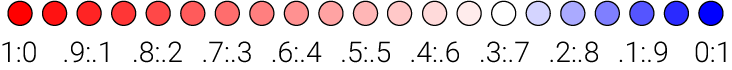
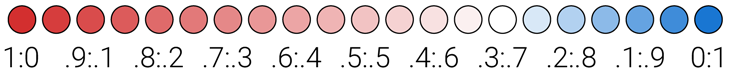
changed color scheme

diff --git a/resources/assets/sass/glazy/_glazy-custom.scss b/resources/assets/sass/glazy/_glazy-custom.scss
@@ -21,3 +21,86 @@ body {
   padding-top: 0;
   padding-bottom: 0;
 }
+
+/* OXIDE COLORS */
+.oxide-colors-R2O    { color: #d32f2f; }
+.oxide-colors-RO     { color: #1976d2; }
+
+.oxide-colors-Al2O3  { color: #388e3c; }
+.oxide-colors-PbO    { color: #388e3c; }
+.oxide-colors-SnO2   { color: #388e3c; }
+
+.oxide-colors-SiO2   { color: #7b1fa2; }
+.oxide-colors-B2O3   { color: #7b1fa2; }
+
+.oxide-colors-Li2O   { color: #d32f2f; }
+.oxide-colors-Na2O   { color: #d32f2f; }
+.oxide-colors-K2O    { color: #d32f2f; }
+
+.oxide-colors-BeO    { color: #1976d2; }
+.oxide-colors-MgO    { color: #1976d2; }
+.oxide-colors-CaO    { color: #1976d2; }
+.oxide-colors-SrO    { color: #1976d2; }
+.oxide-colors-BaO    { color: #1976d2; }
+
+.oxide-colors-TiO2   { color: #f57c00; }
+.oxide-colors-ZrO    { color: #f57c00; }
+.oxide-colors-ZrO2   { color: #f57c00; }
+.oxide-colors-V2O5   { color: #f57c00; }
+.oxide-colors-Cr2O3  { color: #f57c00; }
+.oxide-colors-MnO    { color: #f57c00; }
+.oxide-colors-MnO2   { color: #f57c00; }
+.oxide-colors-FeO    { color: #f57c00; }
+.oxide-colors-Fe2O3  { color: #f57c00; }
+.oxide-colors-CoO    { color: #f57c00; }
+.oxide-colors-NiO    { color: #f57c00; }
+.oxide-colors-CuO    { color: #f57c00; }
+.oxide-colors-Cu2O   { color: #f57c00; }
+.oxide-colors-CdO    { color: #f57c00; }
+.oxide-colors-ZnO    { color: #f57c00; }
+
+.oxide-colors-F      { color: #757575; }
+
+.oxide-colors-P2O5   { color: #0097a7; }
+
+/* OXIDE FILL COLORS */
+.oxide-colors-fill-R2O    { fill: #d32f2f; }
+.oxide-colors-fill-RO     { fill: #1976d2; }
+
+.oxide-colors-fill-Al2O3  { fill: #388e3c; }
+.oxide-colors-fill-PbO    { fill: #388e3c; }
+.oxide-colors-fill-SnO2   { fill: #388e3c; }
+
+.oxide-colors-fill-SiO2   { fill: #7b1fa2; }
+.oxide-colors-fill-B2O3   { fill: #7b1fa2; }
+
+.oxide-colors-fill-Li2O   { fill: #d32f2f; }
+.oxide-colors-fill-Na2O   { fill: #d32f2f; }
+.oxide-colors-fill-K2O    { fill: #d32f2f; }
+
+.oxide-colors-fill-BeO    { fill: #1976d2; }
+.oxide-colors-fill-MgO    { fill: #1976d2; }
+.oxide-colors-fill-CaO    { fill: #1976d2; }
+.oxide-colors-fill-SrO    { fill: #1976d2; }
+.oxide-colors-fill-BaO    { fill: #1976d2; }
+
+.oxide-colors-fill-TiO2   { fill: #f57c00; }
+.oxide-colors-fill-ZrO    { fill: #f57c00; }
+.oxide-colors-fill-ZrO2   { fill: #f57c00; }
+.oxide-colors-fill-V2O5   { fill: #f57c00; }
+.oxide-colors-fill-Cr2O3  { fill: #f57c00; }
+.oxide-colors-fill-MnO    { fill: #f57c00; }
+.oxide-colors-fill-MnO2   { fill: #f57c00; }
+.oxide-colors-fill-FeO    { fill: #f57c00; }
+.oxide-colors-fill-Fe2O3  { fill: #f57c00; }
+.oxide-colors-fill-CoO    { fill: #f57c00; }
+.oxide-colors-fill-NiO    { fill: #f57c00; }
+.oxide-colors-fill-CuO    { fill: #f57c00; }
+.oxide-colors-fill-Cu2O   { fill: #f57c00; }
+.oxide-colors-fill-CdO    { fill: #f57c00; }
+.oxide-colors-fill-ZnO    { fill: #f57c00; }
+
+.oxide-colors-fill-F      { fill: #757575; }
+
+.oxide-colors-fill-P2O5   { fill: #0097a7; }
+

diff --git a/resources/assets/js/components/glazy/analysis/UmfTraditionalNotation.vue b/resources/assets/js/components/glazy/analysis/UmfTraditionalNotation.vue
@@ -174,43 +174,8 @@
         white-space: nowrap!important;
     }
 
-    .oxide-colors-R2O    { color: #000000; }
-    .oxide-colors-RO     { color: #000000; }
-    .oxide-colors-SiO2   { color: #000000; }
-    .oxide-colors-Al2O3  { color: #009900; }
-    .oxide-colors-B2O3   { color: #000000; }
 
-    .oxide-colors-Li2O   { color: #ff0000; }
-    .oxide-colors-Na2O   { color: #ff2222; }
-    .oxide-colors-K2O    { color: #ff4444; }
-
-    .oxide-colors-BeO    { color: #0000ff; }
-    .oxide-colors-MgO    { color: #2222ff; }
-    .oxide-colors-CaO    { color: #4444ff; }
-    .oxide-colors-SrO    { color: #6666ff; }
-    .oxide-colors-BaO    { color: #8888ff; }
-
-
-    .oxide-colors-P2O5   { color: #000000; }
-    .oxide-colors-TiO2   { color: #000000; }
-    .oxide-colors-ZrO    { color: #000000; }
-    .oxide-colors-ZrO2   { color: #000000; }
-    .oxide-colors-V2O5   { color: #000000; }
-    .oxide-colors-Cr2O3  { color: #000000; }
-    .oxide-colors-MnO    { color: #000000; }
-    .oxide-colors-MnO2   { color: #000000; }
-    .oxide-colors-FeO    { color: #000000; }
-    .oxide-colors-Fe2O3  { color: #000000; }
-    .oxide-colors-CoO    { color: #000000; }
-    .oxide-colors-NiO    { color: #000000; }
-    .oxide-colors-CuO    { color: #000000; }
-    .oxide-colors-Cu2O   { color: #000000; }
-    .oxide-colors-CdO    { color: #000000; }
-    .oxide-colors-ZnO    { color: #000000; }
-    .oxide-colors-F      { color: #000000; }
-    .oxide-colors-PbO    { color: #000000; }
-    .oxide-colors-SnO2   { color: #000000; }
-/*
+    /*
     .oxide-colors .color-R2O    { background: #ff6666; color: #000000; }
     .oxide-colors .color-RO     { background: #cccc66; color: #000000; }
     .oxide-colors .color-SiO2   { background: #9999ff; color: #ffffff; }

diff --git a/resources/assets/js/components/glazy/analysis/JsonUmfSparkSvg.vue b/resources/assets/js/components/glazy/analysis/JsonUmfSparkSvg.vue
@@ -13,13 +13,13 @@
                   y="0"
                   v-bind:height="squareSize"
                   v-bind:width="squareSize"
-                  class="color-R2O"
+                  class="oxide-colors-fill-R2O"
                   v-bind:rx="radius"
                   v-bind:ry="radius">
                 <title v-if="showOxideTitle">R₂O:RO</title>
             </rect>
 
-            <path class="color-RO"
+            <path class="oxide-colors-fill-RO"
                   v-bind:d="rightRoundedRect(squareSize - (umf.ROTotal * squareSize), 0, umf.ROTotal * squareSize, squareSize, radius)">
                 <title v-if="showOxideTitle">R₂O:RO</title>
             </path>
@@ -38,7 +38,7 @@
                       v-bind:x="item.x"
                       v-bind:height="squareSize"
                       v-bind:width="item.width"
-                      v-bind:class="'color-' + item.name"
+                      v-bind:class="'oxide-colors-fill-' + item.name"
                       v-bind:rx="radius"
                       v-bind:ry="radius">
                     <title v-if="showOxideTitle">{{ item.name }}</title>
@@ -241,10 +241,11 @@
     }
     .umf-svg text.legend {
         stroke: none;
-        fill: rgba(0,0,0,0.8);
+        fill: rgba(255,255,255,0.6);
         text-anchor: middle;
         overflow-x: visible;
     }
+    /*
     .umf-svg rect.color-R2O    { fill: #ff6666; }
     .umf-svg path.color-RO     { fill: #cccc66; }
     .umf-svg rect.color-SiO2   { fill: #9999ff; }
@@ -277,4 +278,5 @@
     .umf-svg rect.color-F      { fill: #cccccc; }
     .umf-svg rect.color-PbO    { fill: #ff0000; }
     .umf-svg rect.color-SnO2   { fill: #cccccc; }
+    */
 </style>

diff --git a/resources/assets/js/components/glazy/recipe/UmfChart.vue b/resources/assets/js/components/glazy/recipe/UmfChart.vue
@@ -14,10 +14,10 @@
         </div>
         <div v-if="isLoaded" class="row">
             <div class="col-md-12 col-sm-12 mb-2">
-                <img src="/img/charts/recipe.png" height="12"/> Recipe &nbsp;
-                <img src="/img/charts/analysis.png" height="14"/> Analysis &nbsp;
-                <img src="/img/charts/current.png" height="15"/> Current Recipe &nbsp; &nbsp;
-                R<sub>2</sub>O:RO Scale <img src="/img/charts/ror2oscale.png" height="35" width="366"/>
+                <img src="/img/charts/recipe.png" height="25"/> Recipe &nbsp;
+                <img src="/img/charts/analysis.png" height="25"/> Analysis &nbsp;
+                <img src="/img/charts/current.png" height="25"/> Current Recipe &nbsp; &nbsp;
+                R<sub>2</sub>O:RO Scale <img src="/img/charts/ror2oscale.png" height="37" width="365"/>
             </div>
             <div class="col-md-8">
                 <div id="umf-d3-chart-container" class="w-100">
